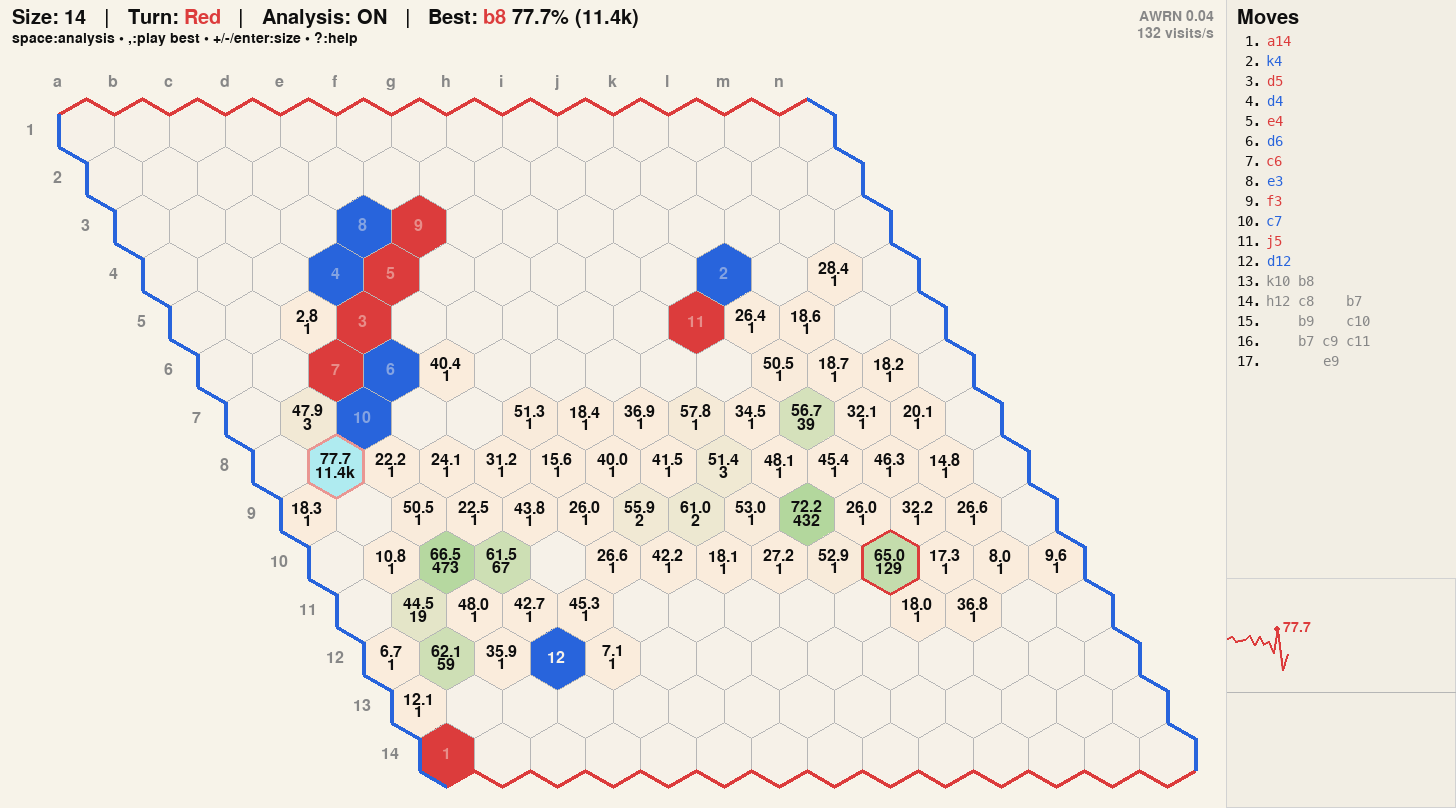
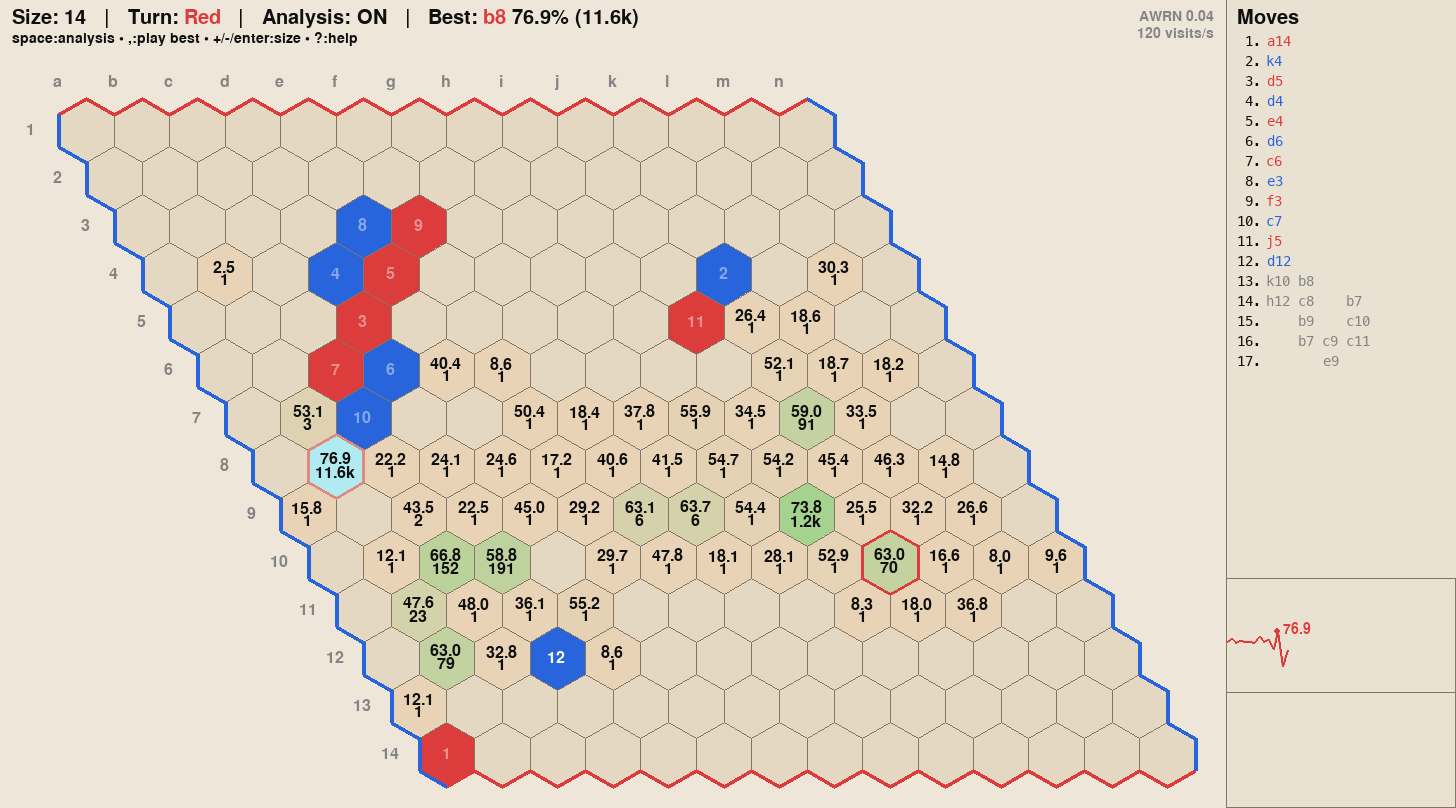
Refine GUI palette and board contrast

diff --git a/gui_render.py b/gui_render.py
@@ -13,22 +13,37 @@ from gui_core import GuiCore
 
 RED = (220, 60, 60)
 BLUE = (40, 100, 220)
-BG = (247, 243, 233)
-OFF_WHITE = (246, 241, 232)
-GRID_EDGE = (182, 182, 182)
-BLACK = (15, 15, 15)
-HOVER_DOT = (190, 190, 190)
-GRAY = (135, 135, 135)
-PANEL_BG = (242, 238, 228)
-PANEL_EDGE = (210, 210, 210)
-WHITE = (250, 250, 250)
+TEXT_ON_LIGHT = (15, 15, 15)
+TEXT_ON_DARK = (250, 250, 250)
+TEXT_MUTED = (132, 132, 132)
+SURFACE_BG = (237, 230, 217)
+BOARD_EMPTY = (228, 216, 194)
+LINE = (130, 118, 100)
 
-ANALYSIS_LOW = (250, 236, 220)
+
+def _bg_relative_color(
+    delta: Tuple[int, int, int], *, base: Optional[Tuple[int, int, int]] = None
+) -> Tuple[int, int, int]:
+    def clamp_byte(v: int) -> int:
+        return max(0, min(255, v))
+
+    if base is None:
+        base = BOARD_EMPTY
+
+    return (
+        clamp_byte(base[0] + delta[0]),
+        clamp_byte(base[1] + delta[1]),
+        clamp_byte(base[2] + delta[2]),
+    )
+
+
+SURFACE_PANEL = _bg_relative_color((-4, -4, -6), base=SURFACE_BG)
+ANALYSIS_LOW = _bg_relative_color((4, -5, -12))
 ANALYSIS_HIGH = (160, 210, 140)
 ANALYSIS_BEST = (175, 235, 240)
-CANDIDATE_LOW = (244, 232, 250)
+CANDIDATE_LOW = _bg_relative_color((-2, -9, 18))
 CANDIDATE_HIGH = (170, 125, 210)
-CANDIDATE_UNKNOWN = (228, 214, 245)
+CANDIDATE_UNKNOWN = _bg_relative_color((-18, -27, 13))
 CANDIDATE_ACTIVE = (250, 196, 92)
 
 HUD_H = 48
@@ -91,7 +106,7 @@ class BaselineText:
 
     @classmethod
     def for_font(cls, font: pygame.freetype.Font) -> "BaselineText":
-        _surf, rect = font.render("0", fgcolor=BLACK)
+        _surf, rect = font.render("0", fgcolor=TEXT_ON_LIGHT)
         return cls(
             font=font,
             baseline_offset=rect.y - rect.height / 2,
@@ -430,7 +445,7 @@ class GuiRenderer:
                     elif show_prior:
                         pr = prior_map.get((col, row))
                         if pr is None:
-                            fill = OFF_WHITE
+                            fill = BOARD_EMPTY
                         else:
                             t = clamp01(pr) ** 0.9
                             fill = lerp_rgb(ANALYSIS_LOW, ANALYSIS_HIGH, t)
@@ -440,7 +455,7 @@ class GuiRenderer:
                         v = visits_map.get((col, row))
                         wr = winrate_map.get((col, row))
                         if v is None or wr is None:
-                            fill = OFF_WHITE
+                            fill = BOARD_EMPTY
                         else:
                             t = 0.0 if denom <= 0 else (math.log(max(1, v)) / denom)
                             t = clamp01(t) ** 1.1
@@ -455,7 +470,7 @@ class GuiRenderer:
 
                 pts = self.poly(ax, ay)
                 pygame.draw.polygon(self.screen, fill, pts, 0)
-                pygame.draw.polygon(self.screen, GRID_EDGE, pts, 1)
+                pygame.draw.polygon(self.screen, LINE, pts, 1)
 
     def draw_next_future_outline(self) -> None:
         mv = self.core.next_mainline_move()
@@ -479,7 +494,7 @@ class GuiRenderer:
                 continue
             ax, ay = col - 1, row - 1
             pts = self.poly(ax, ay)
-            colr = lerp_rgb(RED if mv.side == Side.RED else BLUE, OFF_WHITE, 0.5)
+            colr = lerp_rgb(RED if mv.side == Side.RED else BLUE, BOARD_EMPTY, 0.5)
             pygame.draw.polygon(self.screen, colr, pts, thickness)
 
     def draw_move_numbers(self, show_all: bool) -> None:
@@ -501,10 +516,10 @@ class GuiRenderer:
                     and history[last_idx].kind == MoveKind.SWAP
                 )
                 if idx == last_idx or swap_active_here:
-                    colr = OFF_WHITE
+                    colr = TEXT_ON_DARK
                 else:
                     base = RED if mv.side == Side.RED else BLUE
-                    colr = lerp_rgb(base, OFF_WHITE, number_tint)
+                    colr = lerp_rgb(base, TEXT_ON_DARK, number_tint)
                 self.text.board.blit_center(txt, colr, cx, cy)
             return
 
@@ -517,7 +532,7 @@ class GuiRenderer:
         ax, ay = coords[0] - 1, coords[1] - 1
         cx, cy = self.center(ax, ay)
         dot_r = max(2, int(self.layout.r * 0.18))
-        pygame.draw.circle(self.screen, OFF_WHITE, (int(cx), int(cy)), dot_r, 0)
+        pygame.draw.circle(self.screen, BOARD_EMPTY, (int(cx), int(cy)), dot_r, 0)
 
     def draw_borders(self) -> None:
         thickness = 4
@@ -536,8 +551,8 @@ class GuiRenderer:
                     )
 
     def draw_side_coords(self) -> None:
-        col_color = GRAY
-        row_color = GRAY
+        col_color = TEXT_MUTED
+        row_color = TEXT_MUTED
         for col in range(1, self.board.n + 1):
             ax, ay = col - 1, -1
             cx, cy = self.center(ax, ay)
@@ -553,9 +568,9 @@ class GuiRenderer:
         ax, ay = cell[0] - 1, cell[1] - 1
         pts = self.poly(ax, ay)
         base = RED if side == Side.RED else BLUE
-        ghost = lerp_rgb(base, OFF_WHITE, 0.5)
+        ghost = lerp_rgb(base, BOARD_EMPTY, 0.5)
         pygame.draw.polygon(self.screen, ghost, pts, 0)
-        pygame.draw.polygon(self.screen, GRID_EDGE, pts, 1)
+        pygame.draw.polygon(self.screen, LINE, pts, 1)
 
     def draw_pv_ghosts(self, pv: Tuple[Tuple[int, int], ...], start_side: Side) -> None:
         side = start_side
@@ -575,7 +590,7 @@ class GuiRenderer:
                 continue
             ax, ay = cell[0] - 1, cell[1] - 1
             cx, cy = self.center(ax, ay)
-            self.text.board.blit_center(str(idx + 1), OFF_WHITE, cx, cy)
+            self.text.board.blit_center(str(idx + 1), TEXT_ON_DARK, cx, cy)
             side = self.core.flip_side(side)
 
     def draw_analysis_text(
@@ -591,10 +606,7 @@ class GuiRenderer:
                 for col in range(1, self.board.n + 1):
                     ax, ay = col - 1, row - 1
                     cx, cy = self.center(ax, ay)
-
-                    occ = self.board.get(col, row)
-                    colr = WHITE if occ >= 0 else BLACK
-
+                    colr = TEXT_ON_DARK if self.board.get(col, row) >= 0 else TEXT_ON_LIGHT
                     txt = coord_to_human(col, row)
                     self.text.board.blit_center(txt, colr, cx, cy)
             return
@@ -614,7 +626,7 @@ class GuiRenderer:
                 pr = fmt_prior(r.prior)
                 if not pr:
                     continue
-                self.text.board.blit_center(pr, BLACK, cx, cy)
+                self.text.board.blit_center(pr, TEXT_ON_LIGHT, cx, cy)
                 continue
 
             wr = fmt_wr_or_elo(r.winrate, ui.prefs.show_elo)
@@ -629,11 +641,11 @@ class GuiRenderer:
             top = cy - total_h / 2
             x1 = cx - rect1.width / 2
             y1 = top - self.text.board.line_ref_y + rect1.y
-            self.text.board.blit_line(wr, BLACK, x1, y1)
+            self.text.board.blit_line(wr, TEXT_ON_LIGHT, x1, y1)
             top2 = top + rect1.height + gap
             x2 = cx - rect2.width / 2
             y2 = top2 - self.text.board.line_ref_y + rect2.y
-            self.text.board.blit_line(vv, BLACK, x2, y2)
+            self.text.board.blit_line(vv, TEXT_ON_LIGHT, x2, y2)
 
     def blit_segments(
         self, x: int, y: int, parts: List[Tuple[str, Tuple[int, int, int]]], use_small: bool
@@ -651,8 +663,8 @@ class GuiRenderer:
         cursor_ply: int,
         show_elo: bool,
     ) -> None:
-        pygame.draw.rect(self.screen, PANEL_BG, rect)
-        pygame.draw.rect(self.screen, PANEL_EDGE, rect, 1)
+        pygame.draw.rect(self.screen, SURFACE_PANEL, rect)
+        pygame.draw.rect(self.screen, LINE, rect, 1)
 
         n_moves = len(moves)
         if rect.width <= 1 or rect.height <= 1:
@@ -697,7 +709,7 @@ class GuiRenderer:
             return rect.top + int(round((1.0 - t) * (rect.height - 1)))
 
         mid_y = y_for_plot(0.5)
-        pygame.draw.line(self.screen, GRID_EDGE, (rect.left, mid_y), (rect.right, mid_y), 1)
+        pygame.draw.line(self.screen, LINE, (rect.left, mid_y), (rect.right, mid_y), 1)
 
         if n_moves <= 0:
             return
@@ -782,11 +794,11 @@ class GuiRenderer:
 
     def draw_movelist_panel(self, ui: UiStateLike) -> None:
         x0 = self.layout.board_px_w
-        pygame.draw.rect(self.screen, PANEL_BG, pygame.Rect(x0, 0, PANEL_W, self.screen.get_height()))
+        pygame.draw.rect(self.screen, SURFACE_PANEL, pygame.Rect(x0, 0, PANEL_W, self.screen.get_height()))
 
         pad = 12
         y = 10
-        self.blit_segments(x0 + pad, y, [("Moves", BLACK)], use_small=False)
+        self.blit_segments(x0 + pad, y, [("Moves", TEXT_ON_LIGHT)], use_small=False)
         y += 26
 
         view = self.get_movelist_view()
@@ -848,11 +860,11 @@ class GuiRenderer:
         for row in rows[start:end]:
             ply_label = f"{row.ply}."
             ply_w = self.text.movelist.font.get_rect(ply_label).width
-            self.text.movelist.blit_line(ply_label, BLACK, x0 + pad + gutter_w - ply_w - scroll_px, y)
+            self.text.movelist.blit_line(ply_label, TEXT_ON_LIGHT, x0 + pad + gutter_w - ply_w - scroll_px, y)
             for cell in row.cells:
                 cx = content_x + (cell.column * space_w) - scroll_px
                 if not cell.played:
-                    color = GRAY
+                    color = TEXT_MUTED
                 else:
                     color = RED if cell.side == Side.RED else BLUE
                 self.text.movelist.blit_line(cell.label, color, cx, y)
@@ -861,8 +873,8 @@ class GuiRenderer:
 
         if ui.show_engine_debug:
             io_rect = pygame.Rect(x0, io_top, PANEL_W, self.screen.get_height() - io_top)
-            pygame.draw.rect(self.screen, PANEL_BG, io_rect)
-            pygame.draw.rect(self.screen, PANEL_EDGE, io_rect, 1)
+            pygame.draw.rect(self.screen, SURFACE_PANEL, io_rect)
+            pygame.draw.rect(self.screen, LINE, io_rect, 1)
 
             io_y = io_top + 4
             logs = self.core.engine.get_io_log(io_max_lines)
@@ -873,7 +885,7 @@ class GuiRenderer:
                     line = f"{prefix} {msg} ({count})"
                 else:
                     line = f"{prefix} {msg}"
-                self.text.io.blit_line(line, BLACK, x0 + pad, io_y)
+                self.text.io.blit_line(line, TEXT_ON_LIGHT, x0 + pad, io_y)
                 io_y += io_line_h
         elif graph_h >= GRAPH_MIN_HEIGHT:
             moves, prefix_keys = self.get_eval_graph_data()
@@ -891,31 +903,31 @@ class GuiRenderer:
                 ui.prefs.show_elo,
             )
 
-        pygame.draw.line(self.screen, PANEL_EDGE, (x0, 0), (x0, self.screen.get_height()), 1)
+        pygame.draw.line(self.screen, LINE, (x0, 0), (x0, self.screen.get_height()), 1)
 
     def draw_hud(self, ui: UiStateLike) -> None:
-        pygame.draw.rect(self.screen, BG, pygame.Rect(0, 0, self.screen.get_width(), HUD_H))
+        pygame.draw.rect(self.screen, SURFACE_BG, pygame.Rect(0, 0, self.screen.get_width(), HUD_H))
 
         turn_side = self.core.current_side()
         turn_color = RED if turn_side == Side.RED else BLUE
         turn_name = "Red" if turn_side == Side.RED else "Blue"
         analysis_txt = "ON" if self.app.analysis_running else "OFF"
-        analysis_color = BLACK if self.app.analysis_running else GRAY
+        analysis_color = TEXT_ON_LIGHT if self.app.analysis_running else TEXT_MUTED
 
         parts: List[Tuple[str, Tuple[int, int, int]]] = [
-            ("Size: ", BLACK),
-            (f"{self.board.n}", BLACK),
+            ("Size: ", TEXT_ON_LIGHT),
+            (f"{self.board.n}", TEXT_ON_LIGHT),
         ]
         if self.app.pending_size != self.board.n:
             parts += [
-                ("  (pending ", BLACK),
-                (f"{self.app.pending_size}", BLACK),
-                (")", BLACK),
+                ("  (pending ", TEXT_ON_LIGHT),
+                (f"{self.app.pending_size}", TEXT_ON_LIGHT),
+                (")", TEXT_ON_LIGHT),
             ]
         parts += [
-            ("   |   Turn: ", BLACK),
+            ("   |   Turn: ", TEXT_ON_LIGHT),
             (turn_name, turn_color),
-            ("   |   ", BLACK),
+            ("   |   ", TEXT_ON_LIGHT),
             ("Analysis: ", analysis_color),
             (analysis_txt, analysis_color),
         ]
@@ -928,7 +940,7 @@ class GuiRenderer:
             if cand_key is None:
                 next_keys = self.core.sorted_candidates_by_visits()
                 cand_key = next_keys[0] if next_keys else None
-            parts += [("   |   ", BLACK), ("Cand: ", BLACK)]
+            parts += [("   |   ", TEXT_ON_LIGHT), ("Cand: ", TEXT_ON_LIGHT)]
             if cand_key is not None:
                 parts += [(coord_to_human(*cand_key), turn_color)]
         else:
@@ -944,28 +956,28 @@ class GuiRenderer:
                     display = r
             if display is not None:
                 best_label = "Batch: " if self.core.is_batch_analysis_active() else "Best: "
-                parts += [("   |   ", BLACK), (best_label, BLACK)]
+                parts += [("   |   ", TEXT_ON_LIGHT), (best_label, TEXT_ON_LIGHT)]
                 coord = coord_to_human(display.col, display.row)
                 parts += [(coord, turn_color)]
                 wr = fmt_wr_or_elo(display.winrate, ui.prefs.show_elo)
                 if wr:
                     if ui.prefs.show_elo:
-                        parts += [(" ", BLACK), (wr, BLACK)]
+                        parts += [(" ", TEXT_ON_LIGHT), (wr, TEXT_ON_LIGHT)]
                     else:
-                        parts += [(" ", BLACK), (f"{wr}%", BLACK)]
+                        parts += [(" ", TEXT_ON_LIGHT), (f"{wr}%", TEXT_ON_LIGHT)]
                 vv = fmt_visits(display.visits)
                 if vv:
-                    parts += [(" ", BLACK), (f"({vv})", BLACK)]
+                    parts += [(" ", TEXT_ON_LIGHT), (f"({vv})", TEXT_ON_LIGHT)]
         self.blit_segments(12, 10, parts, use_small=False)
 
         help_line = "space:analysis • ,:play best • +/-/enter:size • ?:help"
-        self.text.hud_small.blit_line(help_line, BLACK, 12, 32)
+        self.text.hud_small.blit_line(help_line, TEXT_ON_LIGHT, 12, 32)
 
         awrn = f"{self.app.analysis_wide_root_noise:.2f}".rstrip("0").rstrip(".")
         awrn_text = "AWRN –" if self.app.candidate_state.candidates else f"AWRN {awrn}"
         awrn_w = self.fonts.hud_small.get_rect(awrn_text).width
         awrn_x = max(12, self.layout.board_px_w - awrn_w - 12)
-        self.text.hud_small.blit_line(awrn_text, GRAY, awrn_x, 10)
+        self.text.hud_small.blit_line(awrn_text, TEXT_MUTED, awrn_x, 10)
         vps_suffix = " visits/s"
         if ui.speed_vps is not None and ui.speed_vps > 0:
             vps_text = f"{fmt_visits(int(ui.speed_vps))}{vps_suffix}"
@@ -974,7 +986,7 @@ class GuiRenderer:
         vps_w = self.fonts.hud_small.get_rect(vps_text).width
         vps_x = max(12, self.layout.board_px_w - vps_w - 12)
         vps_y = 10 + self.text.line_hud_small + 2
-        self.text.hud_small.blit_line(vps_text, GRAY, vps_x, vps_y)
+        self.text.hud_small.blit_line(vps_text, TEXT_MUTED, vps_x, vps_y)
 
     def draw_help_overlay(self) -> None:
         lines = [
@@ -996,17 +1008,17 @@ class GuiRenderer:
         ]
         pad = 8
         gap = 2
-        surfs = [self.fonts.hud_small.render(line, fgcolor=BLACK)[0] for line in lines]
+        surfs = [self.fonts.hud_small.render(line, fgcolor=TEXT_ON_LIGHT)[0] for line in lines]
         w = max(s.get_width() for s in surfs)
         line_h = self.text.line_hud_small
         h = line_h * len(lines) + gap * (len(surfs) - 1)
         x = 12
         y = HUD_H + 12
         rect = pygame.Rect(x - pad, y - pad, w + pad * 2, h + pad * 2)
-        pygame.draw.rect(self.screen, PANEL_BG, rect)
-        pygame.draw.rect(self.screen, PANEL_EDGE, rect, 1)
+        pygame.draw.rect(self.screen, SURFACE_PANEL, rect)
+        pygame.draw.rect(self.screen, LINE, rect, 1)
         for line in lines:
-            self.text.hud_small.blit_line(line, BLACK, x, y)
+            self.text.hud_small.blit_line(line, TEXT_ON_LIGHT, x, y)
             y += line_h + gap
 
     def draw_frame(
@@ -1017,7 +1029,7 @@ class GuiRenderer:
         top_cell: Optional[Tuple[int, int]],
         top_visits: int,
     ) -> None:
-        self.screen.fill(BG)
+        self.screen.fill(SURFACE_BG)
         self.draw_hud(ui)
         pv = self.get_display_pv(ui.hover_cell)
         show_pv = self.should_show_pv(pv)
@@ -1049,7 +1061,7 @@ class GuiRenderer:
             ax, ay = ui.hover_cell[0] - 1, ui.hover_cell[1] - 1
             cx, cy = self.center(ax, ay)
             dot_r = max(2, int(self.layout.r * 0.12))
-            pygame.draw.circle(self.screen, HOVER_DOT, (int(cx), int(cy)), dot_r, 0)
+            pygame.draw.circle(self.screen, LINE, (int(cx), int(cy)), dot_r, 0)
         self.draw_borders()
         self.draw_side_coords()
         self.draw_analysis_text(ui, show_prior, show_coords, suppress_cells=pv_cells)
